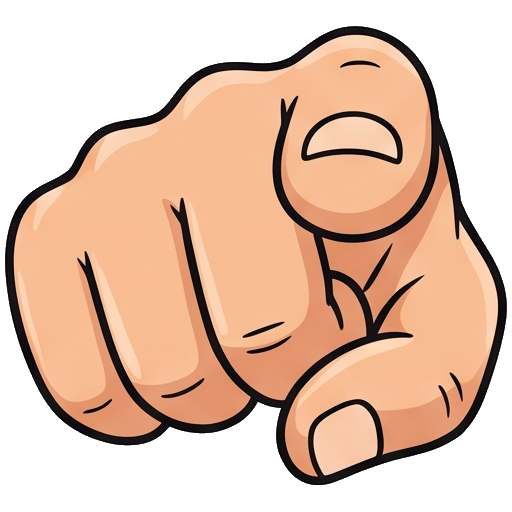
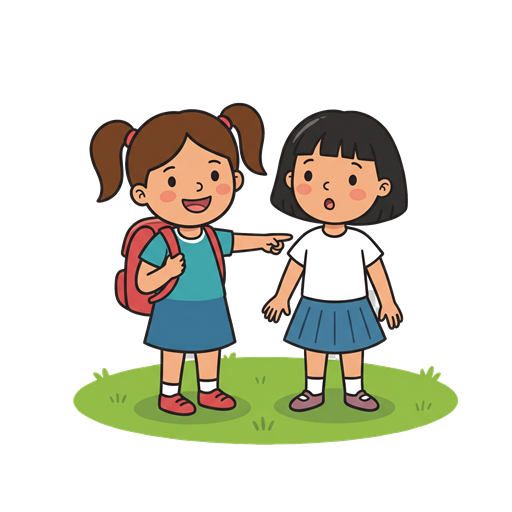
Grammar Unit 5: รูป You = คนชี้ไปที่อีกคน (ตรงหนังสือ) + index.html ซ่อน MATH/Reading/Writing (รอตรวจ)
- แทน point.png ด้วยรูปเด็กชี้ไปที่เพื่อน (สื่อ you), เอา caption ออก (point/self en='')
- index.html WAIT_CONTENT: เพิ่ม MATH, Reading, Writing (ยังไม่ได้ตรวจสอบ)

diff --git a/practice/exam.html b/practice/exam.html
@@ -460,7 +460,7 @@ const PLANTS = {
   sea:{ en:'Sea', th:'ทะเล' }, earth:{ en:'Earth', th:'โลก' }, sky:{ en:'Sky', th:'ท้องฟ้า' },
   tree:{ en:'Tree', th:'ต้นไม้' }, city:{ en:'City', th:'เมือง' }, library:{ en:'Library', th:'ห้องสมุด' },
   park:{ en:'Park', th:'สวนสาธารณะ' }, house:{ en:'House', th:'บ้าน' }, school:{ en:'School', th:'โรงเรียน' },
-  farm:{ en:'Farm', th:'ฟาร์ม' }, point:{ en:'Point', th:'ชี้' }, self:{ en:'Self', th:'ตัวเอง' },
+  farm:{ en:'Farm', th:'ฟาร์ม' }, point:{ en:'' }, self:{ en:'' },
   /* the แบบเจาะจง — หลายชิ้น+ลูกศรชี้ */
   spfox:{ en:'Fox' }, spchair:{ en:'Chair' }, sppencil:{ en:'Pencil' }, spelephant:{ en:'Elephant' },
   /* พหูพจน์ (หลายชิ้น) */

diff --git a/practice/index.html b/practice/index.html
@@ -125,7 +125,7 @@ const GAMES = [
 
 /* วิชาที่ยังไม่มีหนังสือยืนยัน — พักไว้ (ติดป้าย "รอเพิ่มข้อมูล")
    เปิดใช้เมื่อเพิ่มหนังสือ: ลบชื่อออกจากลิสต์นี้ + ปลดล็อกใน exam.html */
-const WAIT_CONTENT = new Set(['คณิต','จินตคณิต','วิทย์','ทบทวนภาษาไทย','ทบทวนภาษาจีน','สังคมฯ','ประวัติศาสตร์']);
+const WAIT_CONTENT = new Set(['MATH','คณิต','จินตคณิต','วิทย์','ทบทวนภาษาไทย','ทบทวนภาษาจีน','สังคมฯ','ประวัติศาสตร์','Reading','Writing']);
 GAMES.forEach(g => { if(WAIT_CONTENT.has(g.title)) g.ready = false; });
 
 function cardHTML(g){